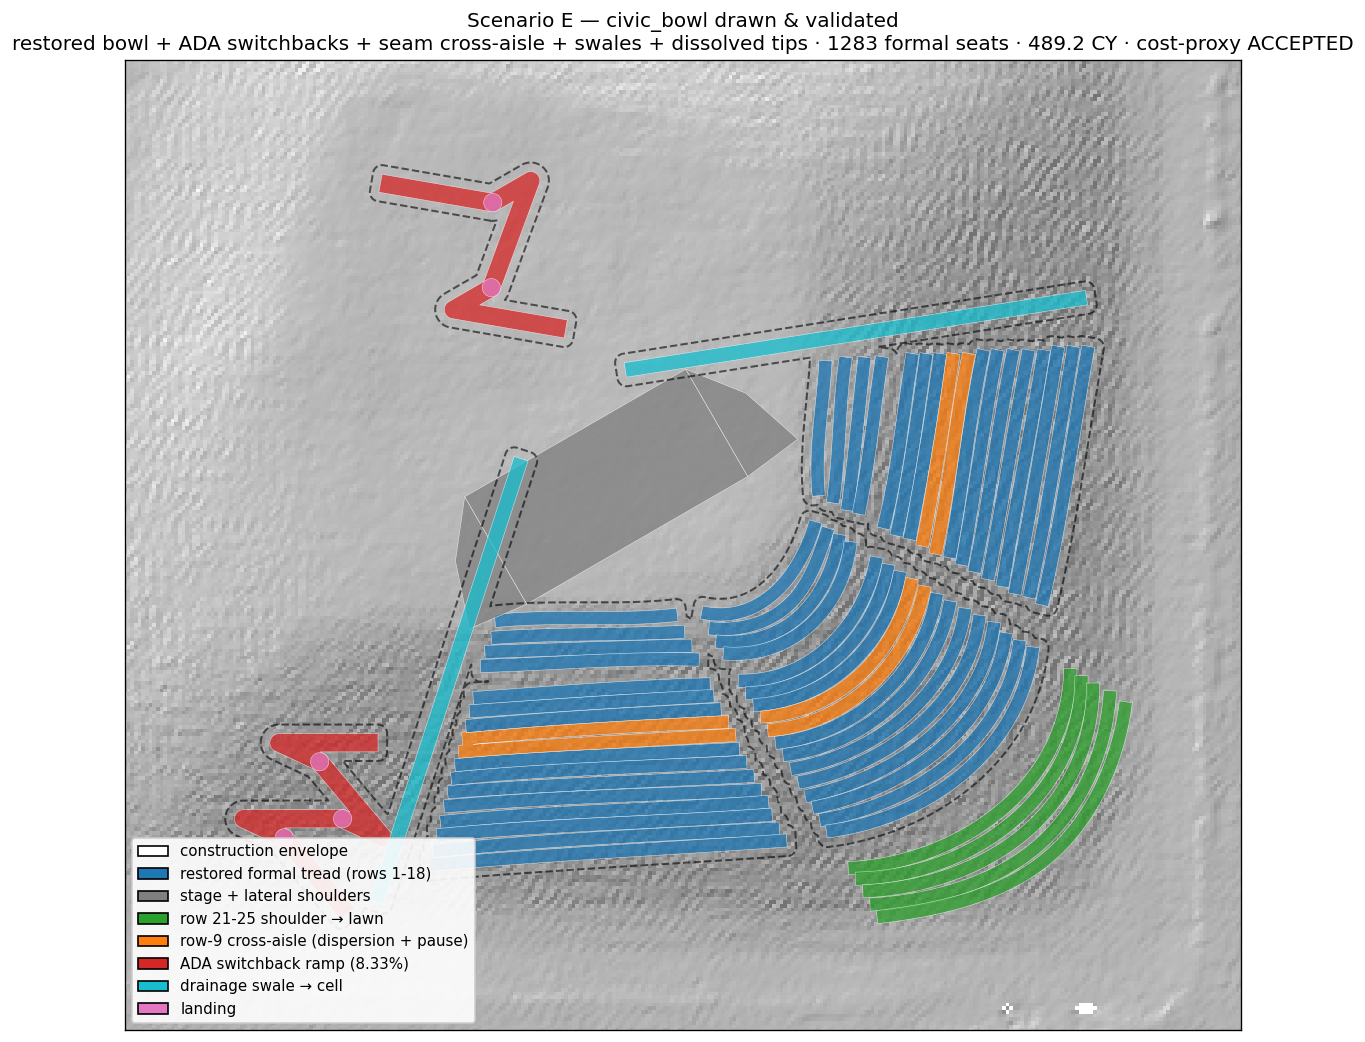
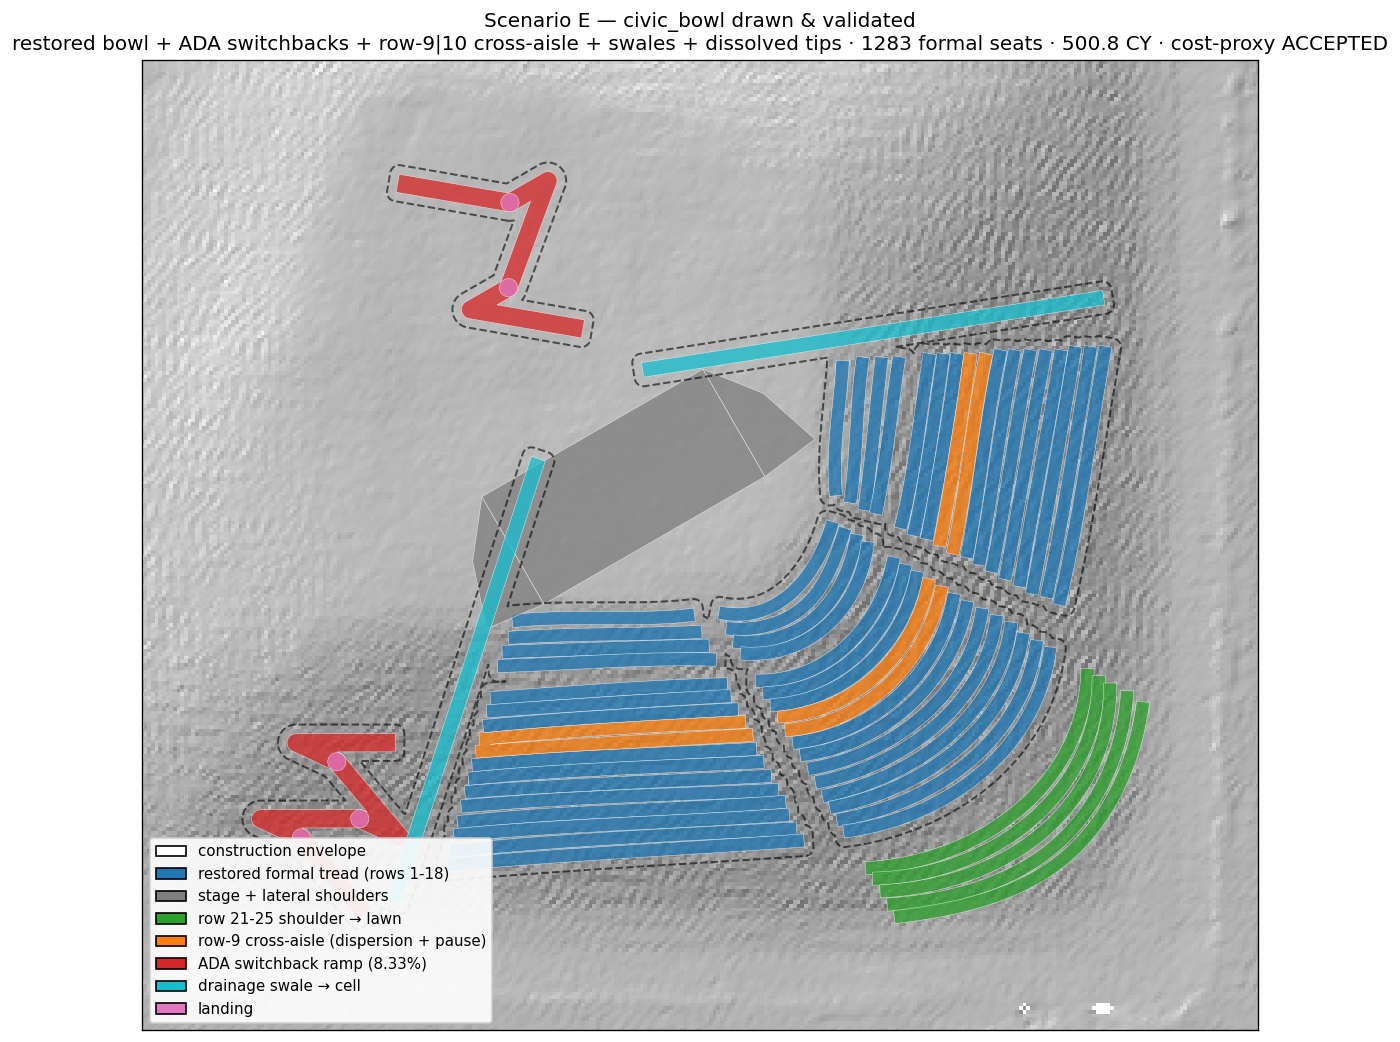
Update Scenario E plan render and renderer script

diff --git a/scripts/render_scenarioE.py b/scripts/render_scenarioE.py
@@ -70,7 +70,7 @@ _v = json.load(open(ROOT / "analysis/scenarioE_civic/validation.json"))
 _cy = _v.get("total_earthwork", {}).get("gross_cy", "?")
 _seats = _v.get("formal_seats_emitted", "?")
 ax.set_title("Scenario E — civic_bowl drawn & validated\n"
-             f"restored bowl + ADA switchbacks + seam cross-aisle + swales + dissolved tips · "
+             f"restored bowl + ADA switchbacks + row-9|10 cross-aisle + swales + dissolved tips · "
              f"{_seats} formal seats · {_cy} CY · cost-proxy ACCEPTED")
 ax.legend(handles=[Patch(facecolor=COLORS[k][0] if COLORS[k][0] != "none" else "white",
                          edgecolor="k", label=COLORS[k][1]) for k in order],